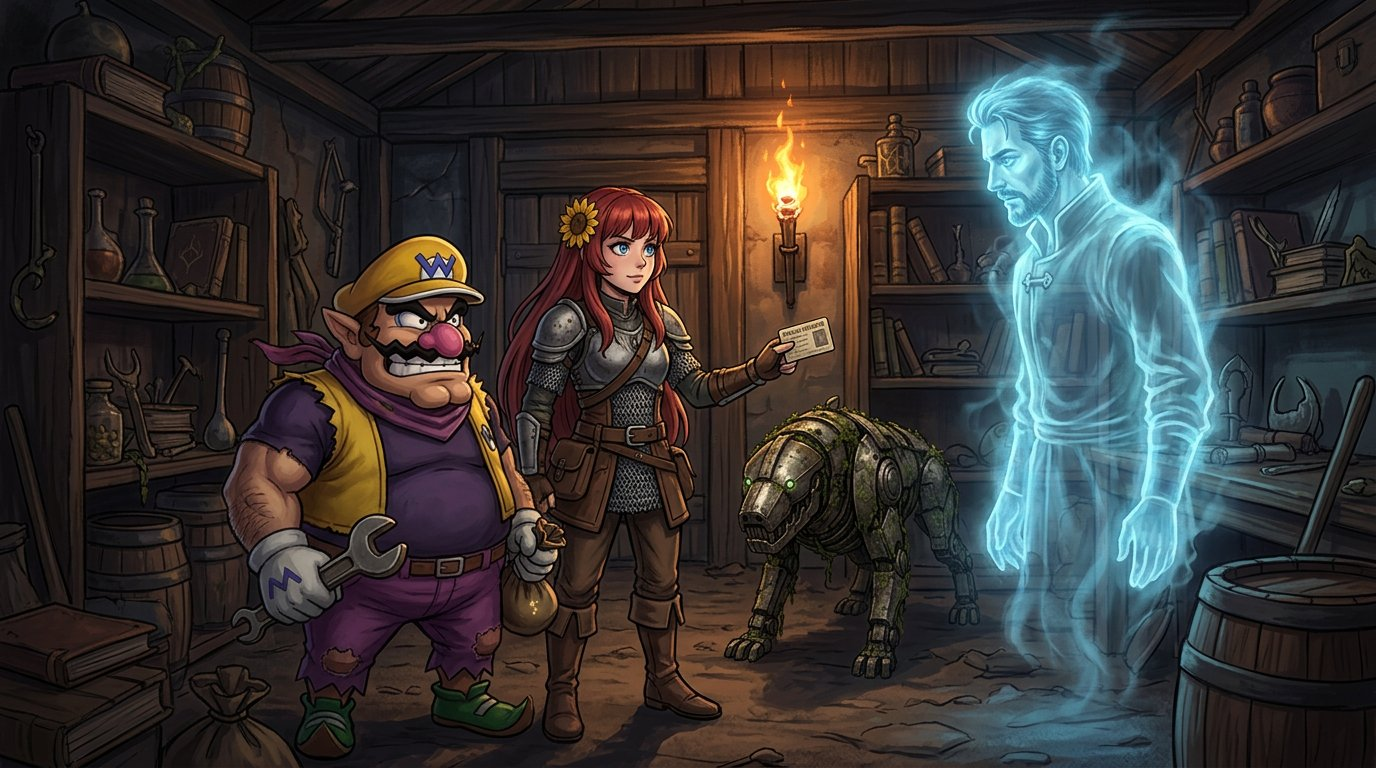
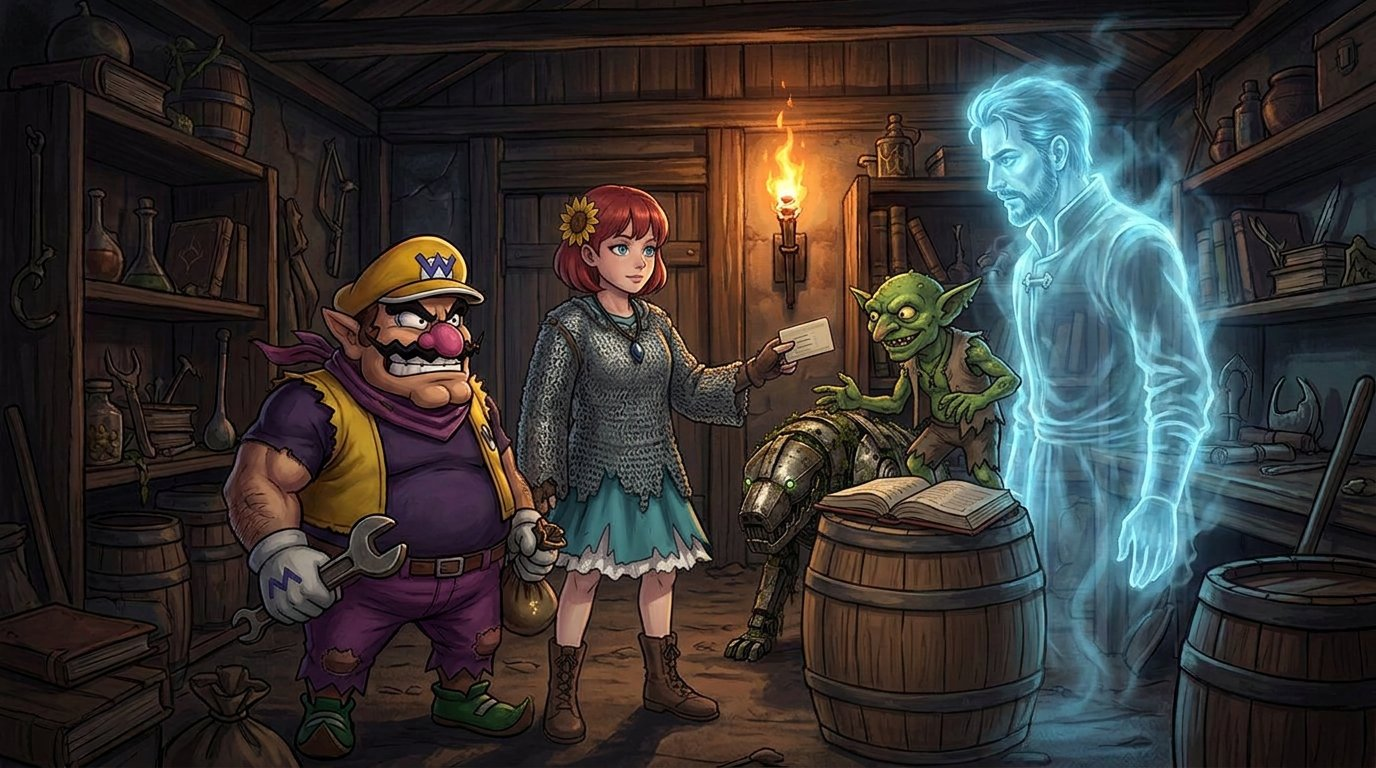
remaster: airlift field plates reshot against the portrait vault; full-body plates rotate as alternate art
- anc-02/03/04/05 regenerated from scratch against repository portraits
  (Remi + chain-mail state, Salam + Eager sprites, Archie + spent state,
  Remi/Wario/Mossy/Pierce). The old four were off-model stand-ins: an
  elf lady with a shield, a human girl in a Toad cap, a gaunt wizard
  with a human-headed centaur and a frog, a hunter and a robot.
- anc-06 edit-mode reshoot: the record says Dan points, the barrier
  goes, and only then his javelin — caption and composition had them
  swapped. alt/caption corrected in events.json (record wins).
- anc-07 edit-mode fix: Remi chin-length hair + chain shirt over torn
  teal restored; the goblin dealer the caption names is now in frame.
- anc-01 reviewed and kept (cast matches the filings).
- leadFrames() adds each record's fullBody plate as the second rotator
  frame, surfacing the four full-body renders (Hjumpik/Remi/Markop/
  Archie) as alternative art on their character pages.
- IMAGE_GUIDELINES: iron_legion_guard.jpg trap warning + fullbody
  rotator note. Chronology suite adds fullBody-frame and event-art-
  exists contracts (200 checks).

Verification: chronology 200 ok / ambient 20 ok / check-all 75 PASS.
Run report: docs/run-reports/2026-09-20-03-airlift-plates-reshoot.md

diff --git a/index.html b/index.html
@@ -5480,6 +5480,11 @@ const LEAD_ROTATORS={};
 function leadFrames(item){
   if(!item||!item.image) return [];
   const frames=[{src:item.image,caption:item.imageCaption||'',credit:item.imageCredit||''}];
+  /* Full-body plates (portraits/player/fullbody/) rotate right after the
+     lead — same contract as event states: art the record owns shows, or it
+     rots unreferenced on disk. */
+  if(item.fullBody) frames.push({src:item.fullBody,
+    caption:item.fullBodyCaption||'Full-body plate.',credit:item.imageCredit||''});
   (Array.isArray(item.imageAlternates)?item.imageAlternates:[]).forEach(a=>{
     if(!a) return;
     const src=typeof a==='string'?a:a.src;

diff --git a/docs/run-reports/2026-09-20-03-airlift-plates-reshoot.md b/docs/run-reports/2026-09-20-03-airlift-plates-reshoot.md
@@ -1,0 +1,115 @@
+# Run report — the Airlift plates reshoot (2026-09-20)
+
+A reader opened the Airlift gallery and found random people standing where
+the party should be. Regeneration order: the four flagged plates reshot
+against the repository's own portrait folder (models first, scene second),
+in fields of four; the full-body portrait shelf surfaces as alternate art
+on the character pages.
+
+## Key findings
+
+- **What was wrong, plate by plate.** `anc-02` was a long-haired
+  mushroom-hatted elf with **a shield** — the record's shield is looked at
+  and left behind; `anc-03` was a red-haired girl wearing a Toad cap as a
+  hat (Salam and Eager are small toads, a third of knight height);
+  `anc-04` showed a gaunt wizard, a **human-headed centaur** and a literal
+  frog in armour where Archie / Markop / a toad paladin belong; `anc-05`
+  was a yellow-raincoat hunter, a mushroom child and an R2 robot where
+  Wario, Remi and Mossy belong.
+- **Two record contradictions beyond the four flags.** `anc-06`'s caption
+  and composition gave Markop the javelin and Dan the shielding; the
+  record has Dan point one finger for the barrier **and** throw the
+  javelin in the same motion. `anc-07` gave Remi waist-length hair and
+  full pauldrons and omitted the goblin dealer the caption names. Both
+  corrected (art reshot edit-mode; alt/caption corrected — the record
+  wins).
+- **A second trap file.** `portraits/iron_legion_guard.jpg` is a bruised
+  **Toad prisoner in orange stripes** — not Legion armour. It leaked the
+  orange prison shirt into the hero plate (anc-01) once already; the
+  registry now warns against using it as knight reference.
+- **anc-01 hero kept.** Reviewed and retained: its cast matches the
+  record (rescued Legion prisoner in the striped shirt, Salam carried by
+  the second knight, Remi armed out front, an archer covering), only the
+  amber cast is stylistic. No reshoot needed.
+
+## CREATED
+
+- None (this round replaces files in place; every reshoot keeps its
+  existing filename and references — diff stays one line per record).
+
+## EDITED
+
+- `Reputation-Matrix2/data/events.json`
+  (the_airlift_that_never_came.gallery): `anc-05` alt/caption rewritten
+  for the depicted den-boundary scene ("the spiders stop, and the asking
+  begins"); `anc-06` alt/caption corrected to the record (Dan casts the
+  barrier around Markop, then the javelin leaves).
+- `index.html` — `leadFrames()` now appends the record's `fullBody` plate
+  as the second rotator frame ("Full-body plate."), so the four full-body
+  renders (Hjumpik, Remi, Markop, Archie) appear as alternative images on
+  their character pages.
+- `docs/IMAGE_GUIDELINES.md` — §2 fullbody now notes the rotator surface;
+  §3.4 gains the `iron_legion_guard.jpg` trap warning beside the
+  Merric/Mossy one.
+- `tools/tests/test-appearance-chronology.mjs` — new contracts: full-body
+  plates join leadFrames; **every local event art reference** (hero +
+  gallery) resolves to a file on disk. 198 → 200 checks.
+
+## GENERATED (assets, all replaced in place, all AI-generated)
+
+| File | Mode | References used | Fix |
+|---|---|---|---|
+| `anc-02-remi-armors.jpg` | regenerate | `player/remi.png` + `event-states/remi-airlift-chainmail.png` | on-model Remi: chin-length hair, sunflower, chain shirt over torn teal, axe in hand, **shield left face-down** |
+| `anc-03-legion-extraction.jpg` | regenerate | `event-states/salam-grove-scarred.png` + `eager.png` | tiny toads, not humans: Salam carried (crossbow/quiver on him), bandaged Eager guided behind |
+| `anc-04-fireball-grove.jpg` | regenerate | `archie.jpg` + `event-states/archie-grove-spent.png` | heavyset black-cloak Archie, spellbook of crossings-out, fireball into the bush, spiders untouched; centaur and frog removed |
+| `anc-05-anamatar-den.jpg` | regenerate | `player/remi.png` + `player/wario.png` + `mossy.png` + `pierce_anamatar.jpg` | on-model Wario/Mossy/Remi with the ID card out, Pierce's ghost in the doorway, spiders held at the boundary |
+| `anc-06-markop-rescue.jpg` | edit | old plate + `dan.png` + `event-states/markop-grove-wounded.png` | Dan **standing**, red cap **white** spots, barrier sweep **and** javelin throw; Markop inside the ring with horse's head |
+| `anc-07-den-passage.jpg` | edit | old plate + `player/remi.png` | Remi's hair chin-length, chain shirt over torn teal, goblin dealer added at the table |
+
+First attempt on `anc-02` was refused by the generator's content screen
+(kneeling + "shredded dress" phrasing); re-shot standing and armor-first,
+same coverage.
+
+## GENERATED (regenerated)
+
+- None. `tools/track-filing-updates.py --write`: nothing changed since
+  the last pass.
+
+## Tests
+
+- Inline scripts parse OK.
+- `node tools/tests/test-appearance-chronology.mjs` — 200 ok / 0 fail.
+- `node tools/tests/test-waluipedia-ambient.mjs` — 20 ok / 0 fail.
+- `python3 tools/check-all.py` — 75 PASS, all requested checks passed.
+  (Incident: an earlier `git stash -u`/pop cycle removed the `npm
+  --no-save` jsdom tree; one check-all pass book showed `alliance cache`
+  and `map lenses` failing with `ERR_MODULE_NOT_FOUND`. jsdom reinstalled;
+  suite green again; nothing in the diff implicated.)
+
+## Events filed
+
+None this round (the Airlift filing itself stands; this round fixes its
+field plates).
+
+## XP awarded
+
+None filed this round.
+
+## MP cost
+
+0.
+
+## Worked example
+
+`tabletop-reference.html` GM TOOLS — unchanged this round.
+
+## Known leftovers / next session
+
+- anc-01 hero plate: keep an eye; if the reader finds the carried
+  prisoner's orange shirt confusing against Eager, reshoot with
+  `iron_legion_guard.jpg` explicitly named as the prisoner and Eager's
+  olive tunic restored.
+- Wario / Mossy / Pierce / Iron Legion grove event-states still unfiled
+  (states need filed beats).
+- `/dev/girl-boss-fights` theatre — still awaiting seats.
+- Chapter 9 filing + DPS screenshot.

diff --git a/docs/IMAGE_GUIDELINES.md b/docs/IMAGE_GUIDELINES.md
@@ -47,7 +47,7 @@ Hero + gallery is the house convention for event art. Figures inline inside
 | Earlier/AI-kept variants | `Reputation-Matrix2/portraits/alternates/` | `imageAlternates[] {src,caption,credit}` |
 | Event-state sprites | `Reputation-Matrix2/portraits/player/event-states/` | `eventStates[] {event,image,label,note}` |
 | Event scene plates | `Reputation-Matrix2/assets/images/events/<slug>/` | `events.json → image` + `gallery[] {src,alt,caption}` |
-| Full-body renders | `Reputation-Matrix2/portraits/player/fullbody/` | `characters.json → fullBody` |
+| Full-body renders | `Reputation-Matrix2/portraits/player/fullbody/` | `characters.json → fullBody` (also rotates as the second lead-rotator frame) |
 
 **State file naming:** `<character>-<event slug>-<state>.png` — e.g.
 `dan-grove-vanguard.png`, `salam-grove-scarred.png`.
@@ -74,7 +74,11 @@ it is a bug with a file name, and deleting it is the fix.
 4. **Two similar characters are two entries.** Merric is the woolly sheep
    with the axe; Mossy (Mossy/Steely) is the moss-covered mechanical dog
    with the green eyes. Both live in this registry, side by side, precisely
-   because the generator keeps conflating them.
+   because the generator keeps conflating them. Likewise
+   `portraits/iron_legion_guard.jpg` is a bruised Toad prisoner in orange
+   stripes — **a prisoner, not Legion armour**. Never pull it as the ref
+   when a scene wants a plate-clad Legion knight; that file's orange
+   uniform leaked into an event plate once already.
 5. **Note state changes the record demands.** If the filing changes a look
    (a scar, a broken helm), the `note` field says exactly what is and is not
    depicted — see Markop's grove state, which records that the art does
